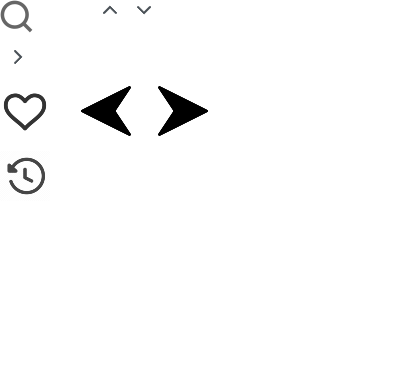
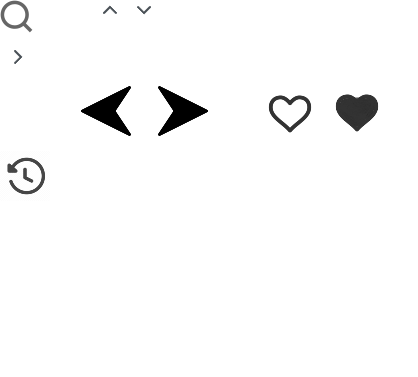
ms2

Changed region(s): [[0.0, 0.2334, 0.1244, 0.3501], [0.7775, 0.2334, 0.9019, 0.3501], [0.622, 0.2334, 0.7464, 0.3501]]

diff --git a/place/templates/view.html b/place/templates/view.html
@@ -28,13 +28,17 @@
 
     <div class='info'>
       {% if user.is_authenticated %}
-        {% if like %}
-        <button class="like-button" data-liked="true" data-post-id="{{ data.place_id }}">좋아요 취소</button>
-        {% else %}
-        <button class="like-button" data-liked="false" data-post-id="{{ data.place_id }}">좋아요</button>
-        {% endif %}
+          {% if like %}
+              <button class="like-button" data-liked="true" data-post-id="{{ data.place_id }}">
+                  <img src="{% static 'images/like.jpg' %}" alt="좋아요" class="like-icon">
+              </button>
+          {% else %}
+              <button class="like-button" data-liked="false" data-post-id="{{ data.place_id }}">
+                  <img src="{% static 'images/like.jpg' %}" alt="좋아요 취소" class="like-icon">
+              </button>
+          {% endif %}
       {% else %}
-        <button class='not_login'>좋아요</button>
+          <button class='not_login'>좋아요</button>
       {% endif %}
       <span id='like-count'>{{ data.like_count }}명이 좋아요를 눌렀습니다.</span>
       <span>조회 {{view_count}}</span>

diff --git a/static/css/view.css b/static/css/view.css
@@ -70,6 +70,17 @@
   font-size: 16px;
 }
 
+.like-button {
+  background: none; /* 기본 배경 제거 */
+  border: none; /* 테두리 제거 */
+  cursor: pointer; /* 포인터 커서로 변경 */
+}
+
+.like-icon {
+  width: 24px; /* 아이콘 너비 */
+  height: 24px; /* 아이콘 높이 */
+}
+
 /* photos */
 .view_wrap .view_photos {
   position: relative;
